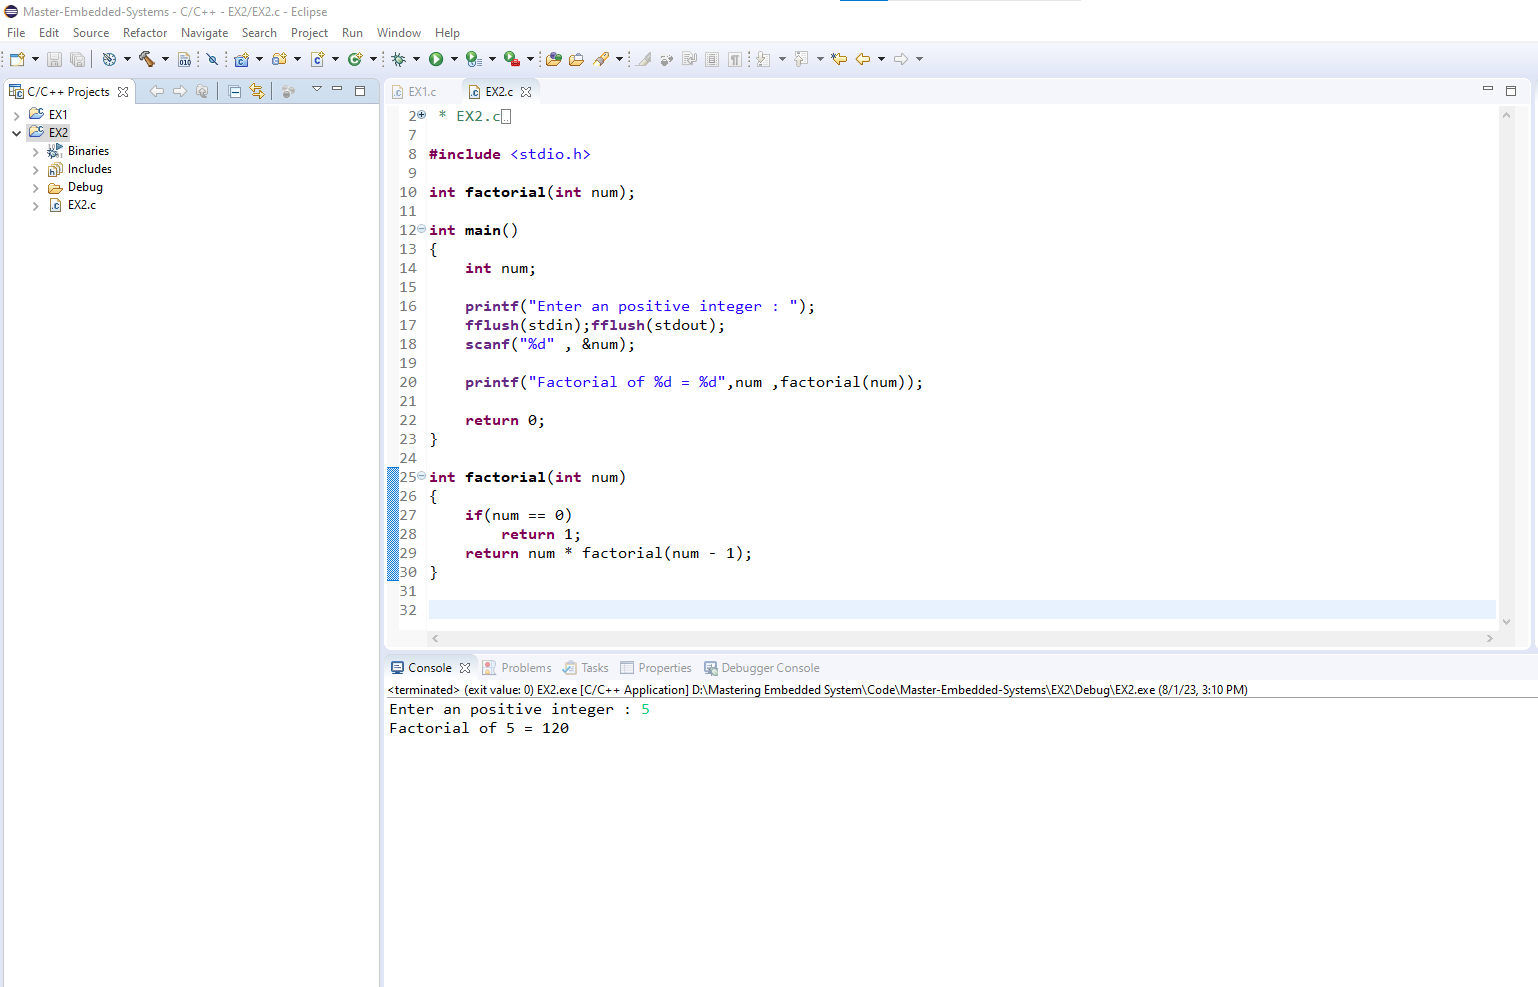
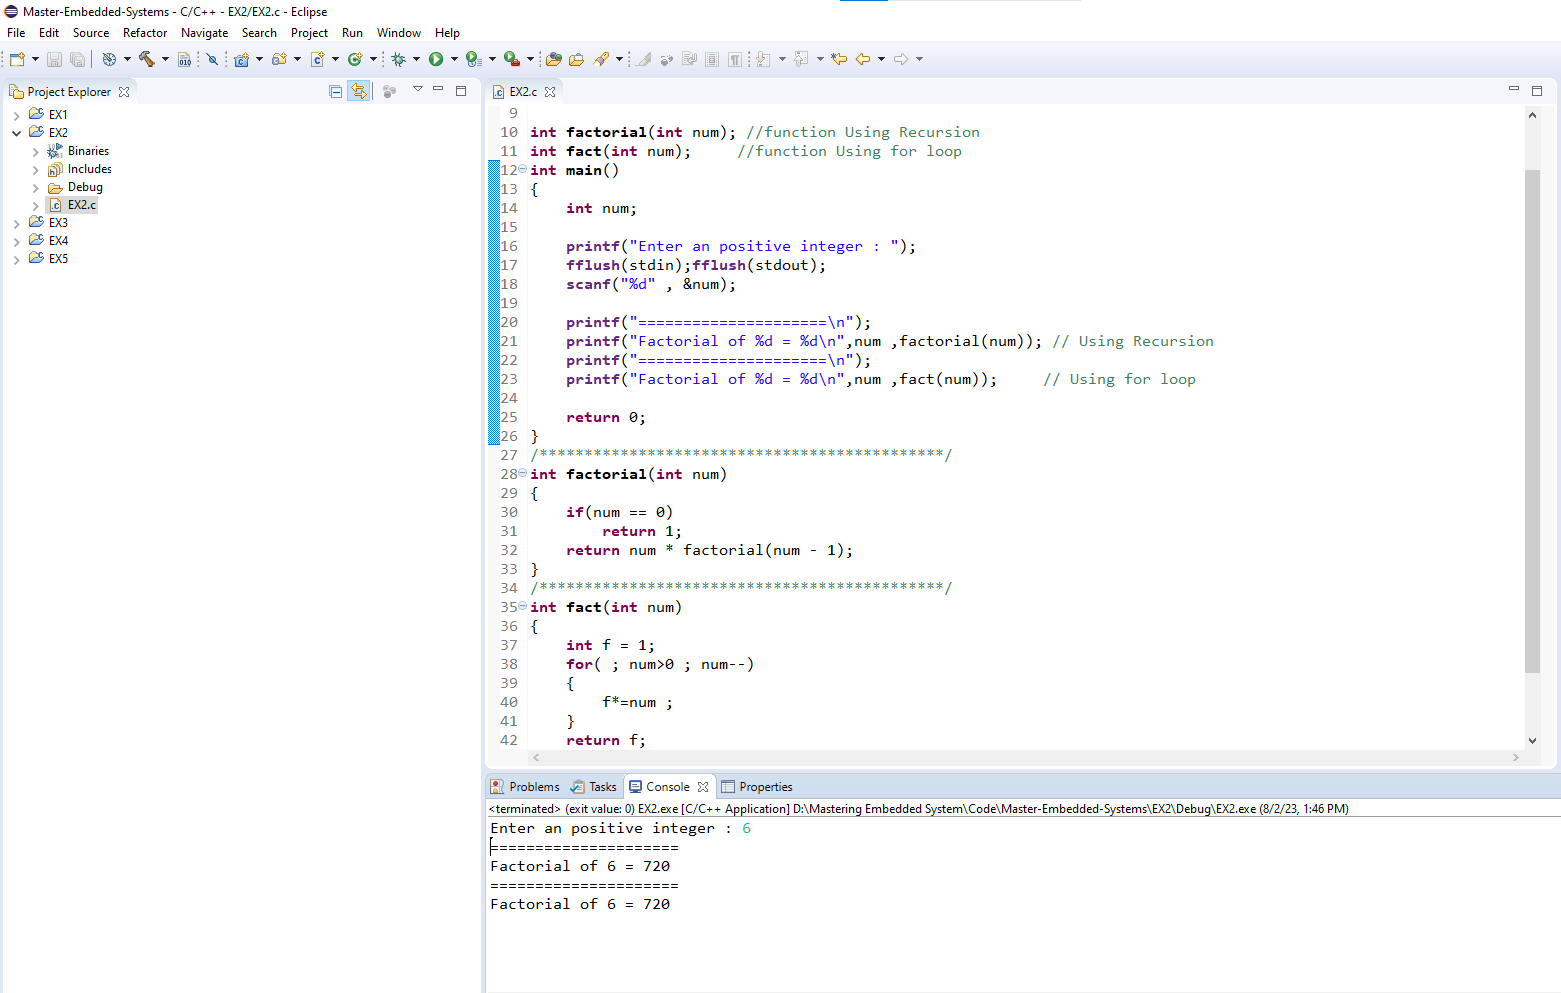
EX2 ==>> Assignment 4 (Calculate Factorial of a Number)

Changed region(s): [[0.0, 0.0, 1.0, 1.0], [0.5306, 0.0304, 0.5618, 0.0608]]

diff --git a/Unit 2/Lesson 5.C_Function/Homework 4/Code/EX2/EX2.c b/Unit 2/Lesson 5.C_Function/Homework 4/Code/EX2/EX2.c
@@ -7,8 +7,8 @@
 
 #include <stdio.h>
 
-int factorial(int num);
-
+int factorial(int num); //function Using Recursion
+int fact(int num);     //function Using for loop
 int main()
 {
 	int num;
@@ -17,15 +17,28 @@ int main()
 	fflush(stdin);fflush(stdout);
 	scanf("%d" , &num);
 
-	printf("Factorial of %d = %d",num ,factorial(num));
+	printf("=====================\n");
+	printf("Factorial of %d = %d\n",num ,factorial(num)); // Using Recursion
+	printf("=====================\n");
+	printf("Factorial of %d = %d\n",num ,fact(num));     // Using for loop
 
 	return 0;
 }
-
+/*********************************************/
 int factorial(int num)
 {
 	if(num == 0)
 		return 1;
 	return num * factorial(num - 1);
 }
-
+/*********************************************/
+int fact(int num)
+{
+	int f = 1;
+	for( ; num>0 ; num--)
+	{
+		f*=num ;
+	}
+	return f;
+}
+/*********************************************/
